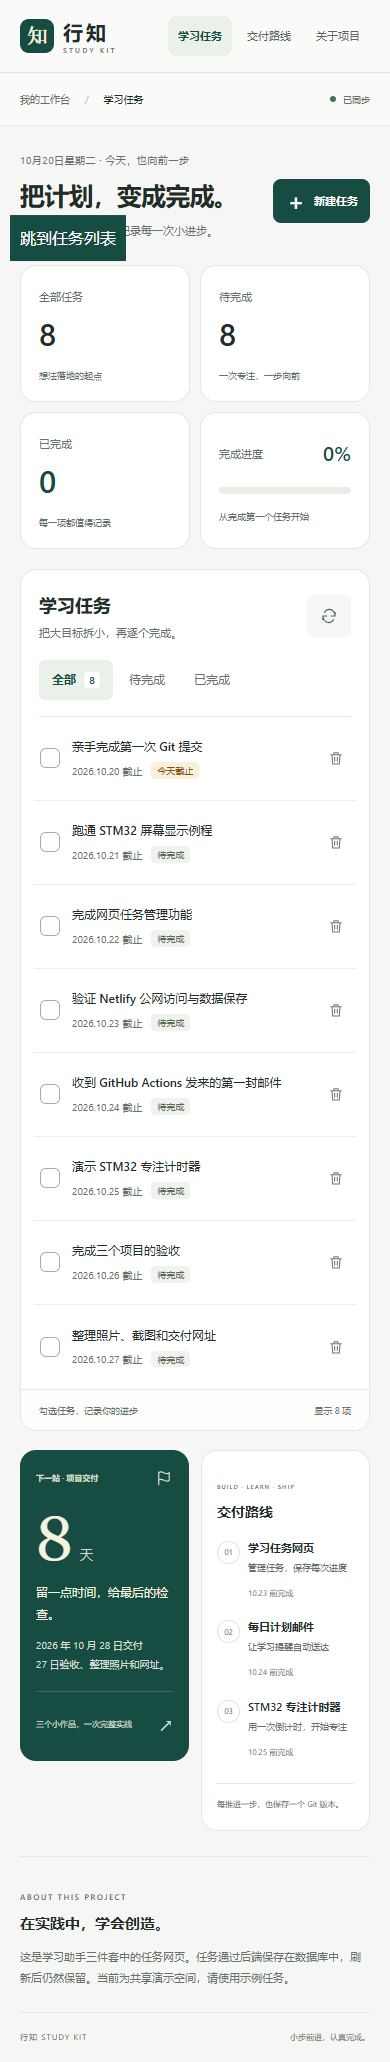
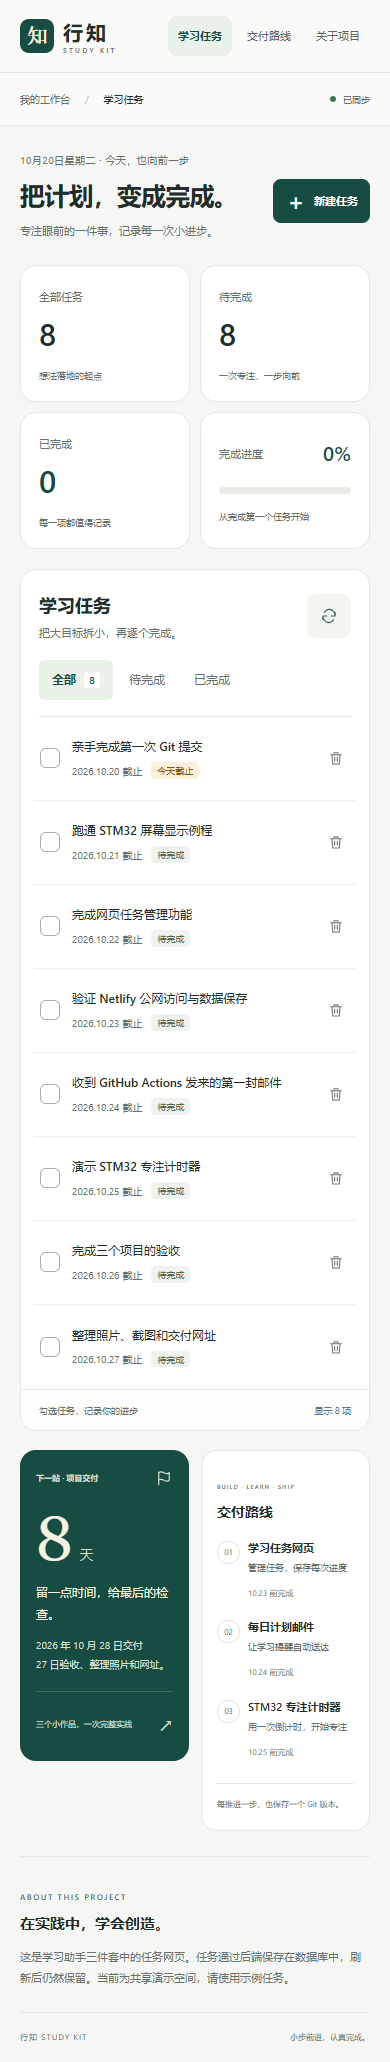
docs: add live website and verified delivery evidence

Changed region(s): [[0.0, 0.0931, 0.3385, 0.1242]]

diff --git a/docs/交付与验收.md b/docs/交付与验收.md
@@ -6,7 +6,7 @@
 
 - GitHub 仓库：https://github.com/firelight0610/learning-assistant-kit-20261028
 - Netlify 项目：https://app.netlify.com/projects/xingzhi-study-kit-1028
-- 预期正式网址：https://xingzhi-study-kit-1028.netlify.app （以部署成功及未登录访问验证为准）
+- 正式网址：https://xingzhi-study-kit-1028.netlify.app （已验证未登录访问和云端任务读写）
 - STM32 资料目录：`D:/楚元喆/学习/STM32`，检查时为空。
 
 ## 已完成的电脑端验证
@@ -25,9 +25,9 @@
 
 ## 交付前必须补齐
 
-- [ ] GitHub `Project checks` 工作流通过。
-- [ ] Netlify 云端部署成功，数据库迁移成功，接口能真实读写。
-- [ ] 正式网址允许未登录访问，手机也能打开。
+- [x] GitHub `Project checks` 工作流通过：[成功记录](https://github.com/firelight0610/learning-assistant-kit-20261028/actions/runs/39401924337)。
+- [x] Netlify 云端部署成功，数据库迁移成功，接口能真实读写：[部署记录](https://app.netlify.com/sites/fbac9fac-0dde-4608-875c-43d446b33a6b/deploys/6ad73647243e82fc7ddb650b)。
+- [x] 正式网址允许未登录访问，移动端尺寸浏览器验证通过；本人手机网络访问待复核。
 - [ ] 正式重新部署后保留同一条测试任务，保留前后截图。
 - [ ] Netlify GitHub 仓库连接完成，推送 `main` 能自动部署。
 - [ ] 本人配置 QQ Secrets，手动发信并在收件箱确认。
@@ -37,6 +37,10 @@
 - [ ] 完成开发板 25 分钟连续运行并拍照。
 - [ ] 本人完成 Git 的提交、同步、分支、冲突与撤销练习。
 - [ ] 27 日检查网址、额度、截图清晰度，标记 `v1.0`。
+
+邮件工作流已在 GitHub Actions 完成一次真实的**预览运行**：[预览成功记录](https://github.com/firelight0610/learning-assistant-kit-20261028/actions/runs/39402096233)。该记录没有发送邮件，不能当成送达证据。
+
+GitHub → Netlify 的连续部署仍需本人在 Netlify 项目的 Repository 设置中完成 GitHub 授权并选择本仓库；目前网址来自已成功的源代码上传部署。仓库代码和云端网页都已经存在，连接授权后再验证推送触发。
 
 ## 提交材料
 

diff --git a/evidence/README.md b/evidence/README.md
@@ -1,6 +1,6 @@
 # 展示证据
 
-- `web-desktop.png`、`web-mobile.png`：自动检查时保存的网页真实截图；最初为本地后端，若后续覆盖为公网截图，以交付记录为准。
+- `web-desktop.png`、`web-mobile.png`：公网网页真实截图，来自未登录的浏览器实际操作验证。
 - 邮件截图：本人实际收到邮件后补充，遮住邮箱地址；不要截图授权码。
 - 硬件照片：实物接线、运行、暂停、到时状态，验证后补充。
 - 部署后数据保留：同一条测试任务在重新部署前后的截图，验证后补充。

diff --git a/docs/开始这里.md b/docs/开始这里.md
@@ -4,7 +4,7 @@
 
 ## 今天先做什么
 
-1. 打开项目网页，新增“亲手完成第一次 Git 提交”，选一个截止日期。
+1. 打开[学习任务网页](https://xingzhi-study-kit-1028.netlify.app)，新增“亲手完成第一次 Git 提交”，选一个截止日期。
 2. 刷新网页，确认任务仍然存在。勾选完成，再切到“已完成”查看。
 3. 在项目文件夹空白处右键，选择“在终端中打开”，输入 `git status`。
 4. 把实际输出发给我。我会先解释当前状态，再让你做下一步。

diff --git a/README.md b/README.md
@@ -4,6 +4,8 @@
 
 **先阅读 [开始这里](docs/开始这里.md)。** 每天 2～3 小时，采用“讲一点 → 你操作 → 检查结果”的方式。
 
+**网页：<https://xingzhi-study-kit-1028.netlify.app>** · [GitHub 自动检查](https://github.com/firelight0610/learning-assistant-kit-20261028/actions)
+
 ## 三个作品
 
 | 作品 | 实现 | 当前边界 |
